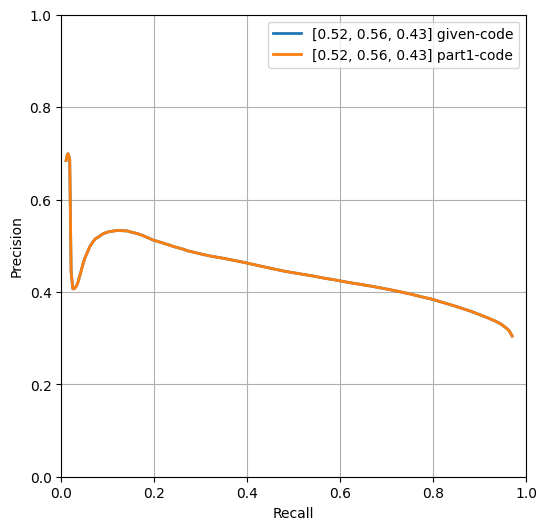
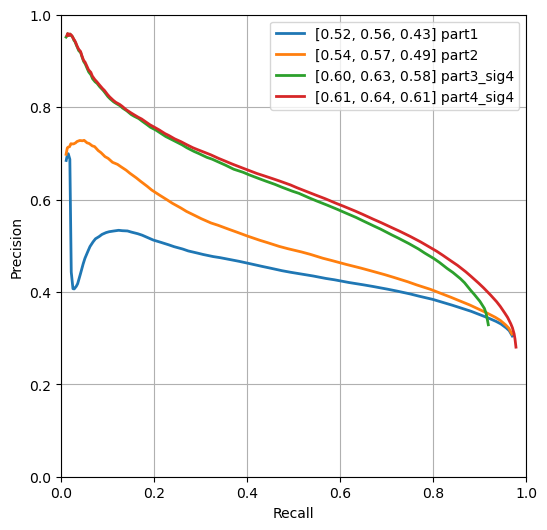
completed contour detection except report

diff --git a/MP2/contours/contour_solve.py b/MP2/contours/contour_solve.py
@@ -7,68 +7,40 @@ def compute_edges_dxdy(I):
   """Returns the norm of dx and dy as the edge response function."""
   I = cv2.cvtColor(I, cv2.COLOR_BGR2GRAY)
   I = I.astype(np.float32)/255.
+
+  ### part 1
+  dx = signal.convolve2d(I, np.array([[-1, 0, 1]]), mode='same')
+  dy = signal.convolve2d(I, np.array([[-1, 0, 1]]).T, mode='same')
+  mag = np.sqrt(dx**2 + dy**2)
   
-  ### question 1
-  # dx = signal.convolve2d(I, np.array([[-1, 0, 1]]), mode='same')
-  # dy = signal.convolve2d(I, np.array([[-1, 0, 1]]).T, mode='same')
-  
-  ### question 2
+  ### part 2
   # dx = signal.convolve2d(I, np.array([[-1, 0, 1]]), mode='same', boundary='symm')
   # dy = signal.convolve2d(I, np.array([[-1, 0, 1]]).T, mode='same', boundary='symm')
-  
-  ### question 3
-  dx = ndimage.gaussian_filter1d(I,   sigma=4., order=1)
-  dy = ndimage.gaussian_filter1d(I.T, sigma=4., order=1).T
-  
-  mag = np.sqrt(dx**2 + dy**2)
+  # mag = np.sqrt(dx**2 + dy**2)
+
+  ### part 3
+  # dx = ndimage.gaussian_filter1d(I,   sigma=4., order=1)
+  # dy = ndimage.gaussian_filter1d(I.T, sigma=4., order=1).T
+  # mag = np.sqrt(dx**2 + dy**2)
+
+  # part 4
+  # dx = ndimage.gaussian_filter1d(I,   sigma=4., order=1)
+  # dy = ndimage.gaussian_filter1d(I.T, sigma=4., order=1).T
+  # mag = np.sqrt(dx**2 + dy**2)
+  # direction = np.arctan2(dy, dx)
+  # mag = non_max_suppression(mag, direction)
+
   mag = (mag - np.min(mag)) / (np.max(mag) - np.min(mag))
   mag = mag * 255.
   mag = np.clip(mag, 0, 255)
   mag = mag.astype(np.uint8)
 
-  # question 4
-  direction = np.arctan2(dy, dx)
-  mag = non_max_suppression(mag, direction)
-
   return mag
-
-
-def non_max_suppression_original(mag, D):
-  M, N = mag.shape
-  Z = np.zeros((M,N), dtype=np.int32)
-  angle = D * 180. / np.pi
-  angle[angle < 0] += 180
-
-  for h in range(1,M-1):
-    for w in range(1,N-1):
-      #angle 0
-      if (0 <= angle[h,w] < 22.5) or (157.5 <= angle[h,w] <= 180):
-        p = mag[h, w+1]
-        r = mag[h, w-1]
-      #angle 45
-      elif (22.5 <= angle[h,w] < 67.5):
-        p = mag[h+1, w-1]
-        r = mag[h-1, w+1]
-      #angle 90
-      elif (67.5 <= angle[h,w] < 112.5):
-        p = mag[h+1, w]
-        r = mag[h-1, w]
-      #angle 135
-      elif (112.5 <= angle[h,w] < 157.5):
-        p = mag[h-1, w-1]
-        r = mag[h+1, w+1]
-      
-      if max(mag[h,w], p, r) == mag[h,w]:
-        Z[h,w] = mag[h,w]
-      else:
-        Z[h,w] = 0
-
-  return Z
 
 
 def non_max_suppression(mag, D):
   H, W = mag.shape
-  Z = np.zeros((H,W), dtype=np.int32)
+  Z = np.zeros((H,W), dtype=np.float32)
 
   for h in range(1,H-1):
     for w in range(1,W-1):
@@ -108,4 +80,4 @@ if __name__ == "__main__":
 
     I = cv2.imread(f'{filename}.jpg')
     edge = compute_edges_dxdy(I)
-    cv2.imwrite(f'{filename}-mine.png', edge)
+    cv2.imwrite(f'{filename}-implemented.png', edge)

diff --git a/MP2/contours/contour_plot.py b/MP2/contours/contour_plot.py
@@ -6,9 +6,9 @@ matplotlib.use('Agg')
 from matplotlib import pyplot as plt
 
 FLAGS = flags.FLAGS
-flags.DEFINE_list('dirs', ['output/demo'], 
+flags.DEFINE_list('dirs', ['output/part1', 'output/part2', 'output/part3_sig4', 'output/part4_sig4'], 
                   'List of directories to read metrics from')
-flags.DEFINE_list('names', ['given-code'], 
+flags.DEFINE_list('names', ['part1', 'part2', 'part3_sig4', 'part4_sig4'], 
                   'Legends')
 flags.DEFINE_string('out_file_name', 'plot',
                     'File to save plots to')
